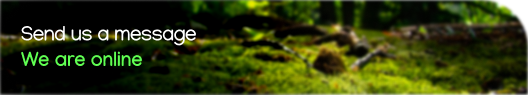
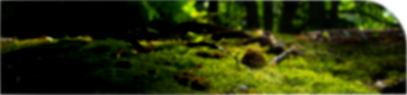
Still making a chat bot

diff --git a/css/chat.css b/css/chat.css
@@ -5,11 +5,11 @@
     height: 70px;
     position: fixed;
     right: 30px;
-    bottom: 40px;
-    z-index: 10;
-    cursor: pointer;
+    bottom: -40px;
+    z-index: 15;
+    box-shadow: 0 0 4px 0 #00A811;
+    /* cursor: pointer; */
     border-radius: 50%;
-    animation: assistant_animation infinite 5s;
     transition: ease all;
 }
 
@@ -28,7 +28,7 @@
     }
     50% {
         bottom: 60px;
-        box-shadow: 0 0 17px 0 #00A811;
+        box-shadow: 0 0 12px 0 #0d7c18;
     }
     65% {
         bottom: 40px;
@@ -42,12 +42,13 @@
 
 .assistant_chat {
     width: 405px;
-    height: 535px;
     position: fixed;
-    bottom: 0;
-    right: 130px;
+    bottom: 70px;
+    right: 70px;
     z-index: 10;
     display: none;
+    opacity: 0;
+    /* opacity: 1; */
 
     background-color: #FFFBFB;
     border: 1px solid rgba(23, 72, 0, 0.5);
@@ -56,39 +57,65 @@
 }
 
 .assistant_chat .top_panel {
+    width: 100%;
     height: 95px;
-    display: flex;
     background-image: url('../images/chat_bg.png');
     background-repeat: no-repeat;
-    position: relative;
-    top: 0;
+    background-size: contain;
 }
-.top_panel .left_side {
-    width: 88%;
+.top_panel div {
+    padding-top: 27px;
+    padding-left: 16px;
 }
-.top_panel .left_side p {
+
+.top_panel div p {
     margin: 0;
+    width: 100%;
+    font-family: 'Manjari', sans-serif;
+    font-weight: 100;
+    font-size: 20px;
+    color: #FFFFFF;
 }
-.top_panel .right_side {
-    width: 12%;
-    position: relative;
-    top: 20%;
-}
-.top_panel .right_side img {
-    cursor: pointer;
+.top_panel div .status {
+    font-weight: 500;
+    color: #60FF52;
 }
 
 .assistant_chat .chat_field {
     height: 336px;
-}
-.chat_field {
+    padding: 15px 10px;
     display: flex;
-    flex-wrap: wrap;
+    flex-direction: column;
     align-items: flex-end;
+    justify-content: flex-end;
+    overflow-y: auto;
 }
+.chat_field .user_message {
+    background-color: #39b453;
+    color: #fff;
+}
+
+.chat_field .user_message,
+.chat_field .bot_message {
+    border: 0.5px solid #848484af;
+    border-radius: 3px;
+    padding: 4px 8px;
+    padding-top: 8px;
+
+    font-family: 'Manjari';
+    font-weight: 400;
+    font-size: 20px;
+    line-height: 20px;
+}
+
+.chat_field .bot_message {
+    background-color: #d1d1d136;
+    align-self: flex-start;
+}
+
 .bottom_panel {
     width: 100%;
-    height: 102px;
+    height: 85px;
     border-top: 0.4px solid #AFAFAF;
     display: flex;
     align-items: center;
@@ -97,14 +124,15 @@
     width: 75%;
     margin-left: 12px;
 }
-.bottom_panel .input_field form {
-    width: 100%;
-}
 .bottom_panel .input_field input {
     width: 96%;
-    padding: 0;
+    height: 55px;
+    padding: 0 0 0 10px;
     margin: 0;
-    padding-left: 10px;
+    outline: none;
+    border: 1px solid #848484;
+    border-radius: 5px;
+    font-size: 22px;
     font-family: 'Manjari', sans-serif;
 }
 .bottom_panel .input_field input::placeholder {

diff --git a/js/chatBot.js b/js/chatBot.js
@@ -1,18 +1,17 @@
-const chatBody = document.querySelector('.chat_field');
-const input = document.querySelector('#message');
-const chat = document.querySelector('.assistant_chat');
-const assistantBtn = document.querySelector('#assistant');
-const closeChat = document.querySelector('#closeChat');
+var json = [];
+var answers = [];
+const getJsonData = () => {
+    answers = json;
+}
 
-assistantBtn.addEventListener('click', function() {
-    chat.style.display = 'unset';
-});
-closeChat.addEventListener('click', function() {
-    chat.style.display = 'none';
+$('#message').keydown(function(e) {
+    if(e.key === 'Enter') {
+        getUserMessage();
+    }
 });
 
 const getUserMessage = () => {
-    const userInput = input.value;
+    const userInput = $('#message').val();
     if(userInput.trim() != '') {
         renderUserMessage(userInput);
     }
@@ -24,36 +23,32 @@ const renderUserMessage = (message) => {
     const userNode = document.createTextNode(message);
     userMessageElem.classList.add('user_message');
     userMessageElem.append(userNode);
-    chatBody.append(userMessageElem);
+    $('.chat_field').append(userMessageElem);
 };
 
 // Rendering bot answer
 function renderBotAnswer(botAnswer) {  
     $('#botStatus').removeClass('whistBot');
     $('#botStatus').addClass('botTyping');
-    $('.chat_body').css('height', '272px');
-    // while ($('#botStatus').hasClass('botTyping')) {
-    //     $('#input').keypress(function(e) {
-    //         return false;
-    //     });
-    // }
+    $('.chat_field').css('height', '272px');
+
     setTimeout(() => {
         $('#botStatus').removeClass('botTyping');
         $('#botStatus').addClass('whistBot');
-        $('.chat_body').css('height', '300px');
+        $('.chat_field').css('height', '300px');
         let botNode = '';
         const botMessageElem = document.createElement('div');
         if(botAnswer != null && botAnswer != '') {
             botNode = document.createTextNode(botAnswer);
         } 
         else {
-            botNode = document.createTextNode("I'm just robot eblivii!");
+            botNode = document.createTextNode("I'm just robot, genius...");
         }
-        botMessageElem.classList.add('chatbot_message');
+        botMessageElem.classList.add('bot_message');
         botMessageElem.append(botNode);
-        chatBody.append(botMessageElem);
+        $('.chat_field').append(botMessageElem);
 
-        input.value = '';
-        chatBody.scrollTop = chatBody.scrollHeight;
+        $('#message').value = '';
+        $('.chat_field').scrollTop() = document.querySelector('.chat_field').scrollHeight;
     }, 1000);
 }

diff --git a/index.html b/index.html
@@ -13,6 +13,7 @@
     <link rel="stylesheet" href="css/chat.css">
     <script src="js/app.js" defer></script>
     <script src="js/chatBot.js" defer></script>
+    <script type="module" src="js/response.js"></script>
     <title>+Morality</title>
 </head>
 
@@ -38,24 +39,22 @@
         <!-- Assistant chat -->
         <div class="assistant_chat">
             <div class="top_panel">
-                <div class="left_side">
+                <div>
                     <p>Send us a message</p>
                     <p class="status">We are online</p>
                 </div>
-                <div class="right_side">
-                    <img src="images/chat_cross.png" id="closeChat" alt="close">
-                </div>
             </div>
-            <div class="chat_field"></div>
+            <div class="chat_field">
+                <div class="user_message">Hello robot!</div>
+                <div class="bot_message">I'm just robot eblivii!</div>
+            </div>
             <span id="botStatus" class="whistBot">
                 <span class="typing_alert">Assistant is typing</span>
                 <div class="lds-ellipsis"><div></div><div></div><div></div><div></div></div>
             </span>
             <div class="bottom_panel">
                 <div class="input_field">
-                    <form id="myForm">
-                        <input type="text" id="message" placeholder="Type..." name="msg" autocomplete="off" autofocus>
-                    </form>
+                    <input type="text" id="message" placeholder="Type..." name="msg" autocomplete="off" autofocus>
                 </div>
                 <div class="send">
                     <img src="images/chat_send.png" alt="send">

diff --git a/js/app.js b/js/app.js
@@ -30,12 +30,30 @@ $(document).ready(() => {
     // -----------------------------------
 
     // Assistant appearance
+    $('#assistant').css({'display': 'block', 'animation': 'assistant_animation infinite 5s'});
     setTimeout(() => {
-        setTimeout(() => {
+        $('#assistant').animate({'opacity': 1, 'bottom': '40px'}, 500, 'linear');
+        $('#assistant').css('cursor', 'pointer');
+
+        $('#assistant').click(() => {
             
-        }, );
-        $('#assistant').show();
-        $('#assistant').animate({'opacity': 1}, 300);
+            if($('.assistant_chat').css('display') == 'none') {
+                // Open chat
+                $('.assistant_chat').show();
+                $('.assistant_chat').animate({'opacity': 1}, 400);
+
+                $('#assistant').animate({'bottom': '40px'}, 250, 'linear');
+                const assist_styles = $('#assistant').prop('style');
+                assist_styles.removeProperty('animation');
+            } else {
+                // Close chat
+                $('.assistant_chat').fadeOut();
+                setTimeout(() => {
+                    $('.assistant_chat').css('opacity', 0);
+                }, 400);
+                $('#assistant').css('animation', 'assistant_animation infinite 5s');
+            }
+        });
     }, 2000);
     // -----------------------------------
 });

diff --git a/css/styles.css b/css/styles.css
@@ -6,7 +6,8 @@
 @import url('https://fonts.googleapis.com/css2?family=Montserrat:wght@300;400;500;600&display=swap');
 /* Manrope font */
 @import url('https://fonts.googleapis.com/css2?family=Manrope:wght@300;400;500;600;700;800&display=swap');
-@import url('https://fonts.googleapis.com/css2?family=Inter:wght@500&display=swap" rel="stylesheet');
+/* Inter font */
+@import url('https://fonts.googleapis.com/css2?family=Inter:wght@500&display=swap"');
 
 html {
     scroll-behavior: smooth;

diff --git a/js/response.js b/js/response.js
@@ -1,0 +1,3 @@
+import data from '../data/bot_answers.json' assert { type: 'json' };
+json = data;
+getJsonData();
